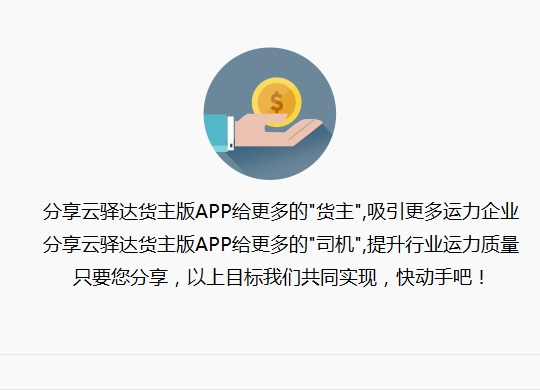
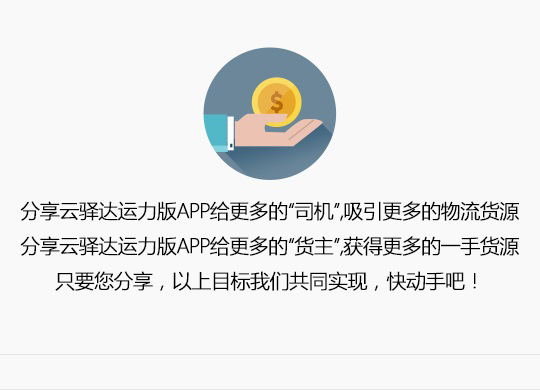
增加微信分享功能，修复启动画面

Changed region(s): [[0.0296, 0.4923, 0.9778, 0.7692], [0.5037, 0.3077, 0.5333, 0.3385], [0.5037, 0.1846, 0.5333, 0.2154]]

diff --git a/client/goods_app/www/js/app.js b/client/goods_app/www/js/app.js
@@ -7,7 +7,7 @@
 // 'starter.controllers' is found in controllers.js
 
 angular.module('starter', ['ionic', 'ngIOS9UIWebViewPatch', 'starter.controllers', 'starter.services', 'ngCordova', 'ionic-citydata', 'ionic-citypicker', 'ionic-dictpicker', 'angularMoment'])
-  .run(function ($ionicPlatform, $ionicPopup, $location, $rootScope, $ionicHistory, $cordovaToast, $timeout, amMoment, dictService, geolocationService) {
+  .run(function ($ionicPlatform, $ionicPopup, $location, $rootScope, $ionicHistory, $cordovaToast, $timeout, amMoment, dictService) {
     $ionicPlatform.ready(function () {
       // set moment locale
       amMoment.changeLocale('zh-cn');
@@ -16,12 +16,17 @@ angular.module('starter', ['ionic', 'ngIOS9UIWebViewPatch', 'starter.controllers
       if (window.cordova && window.cordova.plugins && window.cordova.plugins.Keyboard) {
         cordova.plugins.Keyboard.hideKeyboardAccessoryBar(true);
         cordova.plugins.Keyboard.disableScroll(true);
-
       }
       if (window.StatusBar) {
         // org.apache.cordova.statusbar required
         StatusBar.styleLightContent();
       }
+
+      //隐藏启动画面
+      setTimeout(function () {
+        navigator.splashscreen.hide();
+      }, 500);
+
       // 所在地定位
       //geolocationService.getCurrentPosition();
       $rootScope.dictService = dictService;

diff --git a/client/driver_app/www/js/controllers/user/invitationCtrl.js b/client/driver_app/www/js/controllers/user/invitationCtrl.js
@@ -26,8 +26,8 @@ angular.module('starter.controllers').controller('InvitationCtrl', function ($sc
     });
     Wechat.share({
       message: {
-        title: '用这个APP可以实现快速发货，快速找到运力资源，你也试试吧~',
-        description: '云驿达货主版',
+        title: '用这个APP可以实现快速找货，快速找到货主企业，你也试试吧~',
+        description: '云驿达运力版',
         thumb: "www/img/icon.png",
         media: {
           type: Wechat.Type.LINK,
@@ -53,8 +53,8 @@ angular.module('starter.controllers').controller('InvitationCtrl', function ($sc
     });
     Wechat.share({
       message: {
-        title: '用这个APP可以实现快速发货，快速找到运力资源，你也试试吧~',
-        description: '云驿达货主版',
+        title: '用这个APP可以实现快速找货，快速找到货主企业，你也试试吧~',
+        description: '云驿达运力版',
         thumb: "www/img/icon.png",
         media: {
           type: Wechat.Type.LINK,

diff --git a/client/driver_app/plugins/cordova-plugin-wechat/scripts/android-install.js b/client/driver_app/plugins/cordova-plugin-wechat/scripts/android-install.js
@@ -13,10 +13,13 @@ module.exports = function (context) {
         // fallback
         ConfigParser = context.requireCordovaModule('cordova-lib/src/configparser/ConfigParser');
     }
-    
+
     var config      = new ConfigParser(path.join(context.opts.projectRoot, "config.xml")),
         packageName = config.android_packageName() || config.packageName();
 
+    // replace dash (-) with underscore (_)
+    packageName = packageName.replace(/-/g , "_");
+    
     console.info("Running android-install.Hook: " + context.hook + ", Package: " + packageName + ", Path: " + projectRoot + ".");
 
     if (!packageName) {

diff --git a/client/goods_app/plugins/cordova-plugin-wechat/scripts/android-install.js b/client/goods_app/plugins/cordova-plugin-wechat/scripts/android-install.js
@@ -13,10 +13,13 @@ module.exports = function (context) {
         // fallback
         ConfigParser = context.requireCordovaModule('cordova-lib/src/configparser/ConfigParser');
     }
-    
+
     var config      = new ConfigParser(path.join(context.opts.projectRoot, "config.xml")),
         packageName = config.android_packageName() || config.packageName();
 
+    // replace dash (-) with underscore (_)
+    packageName = packageName.replace(/-/g , "_");
+    
     console.info("Running android-install.Hook: " + context.hook + ", Package: " + packageName + ", Path: " + projectRoot + ".");
 
     if (!packageName) {

diff --git a/client/driver_app/www/js/app.js b/client/driver_app/www/js/app.js
@@ -22,6 +22,12 @@ angular.module('starter', ['ionic', 'ngIOS9UIWebViewPatch', 'starter.controllers
         // org.apache.cordova.statusbar required
         StatusBar.styleLightContent();
       }
+
+      //隐藏启动画面
+      setTimeout(function () {
+        navigator.splashscreen.hide();
+      }, 500);
+
       // 所在地定位
       //geolocationService.getCurrentPosition();
       $rootScope.dictService = dictService;

diff --git a/client/driver_app/plugins/cordova-plugin-wechat/CHANGELOG.md b/client/driver_app/plugins/cordova-plugin-wechat/CHANGELOG.md
@@ -1,5 +1,9 @@
 # Change Log
 
+## 1.1.3 - 2016-01-28
+### Fixed
+- Fixed package name with hyphen issue in android
+
 ## 1.1.2 - 2016-01-22
 ### Fixed
 - Fixed sharing emotion issue (remote file) in Android

diff --git a/client/goods_app/plugins/cordova-plugin-wechat/CHANGELOG.md b/client/goods_app/plugins/cordova-plugin-wechat/CHANGELOG.md
@@ -1,5 +1,9 @@
 # Change Log
 
+## 1.1.3 - 2016-01-28
+### Fixed
+- Fixed package name with hyphen issue in android
+
 ## 1.1.2 - 2016-01-22
 ### Fixed
 - Fixed sharing emotion issue (remote file) in Android
